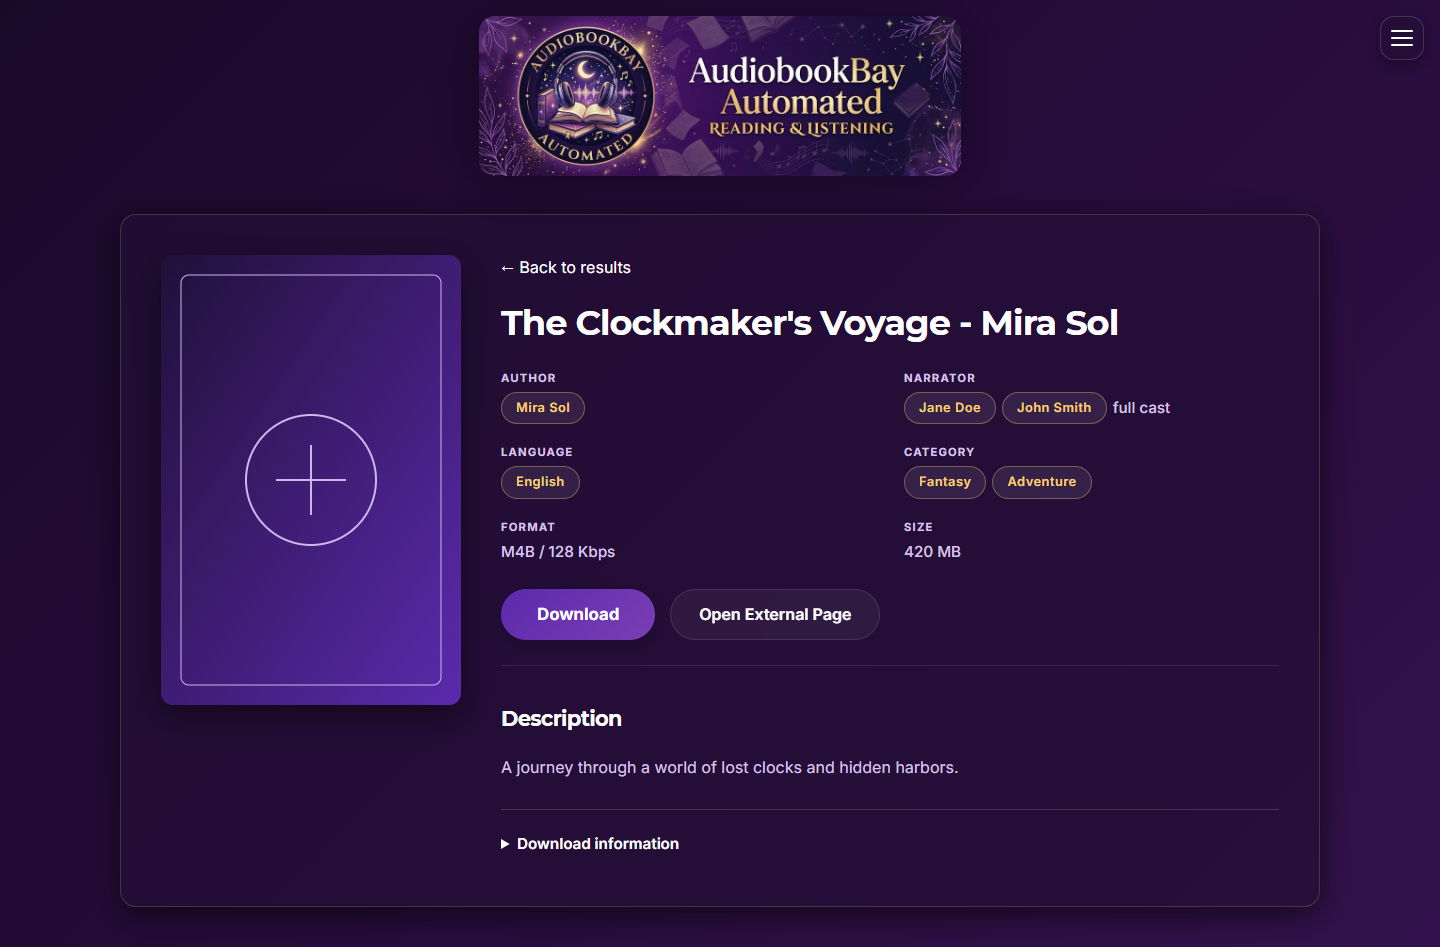
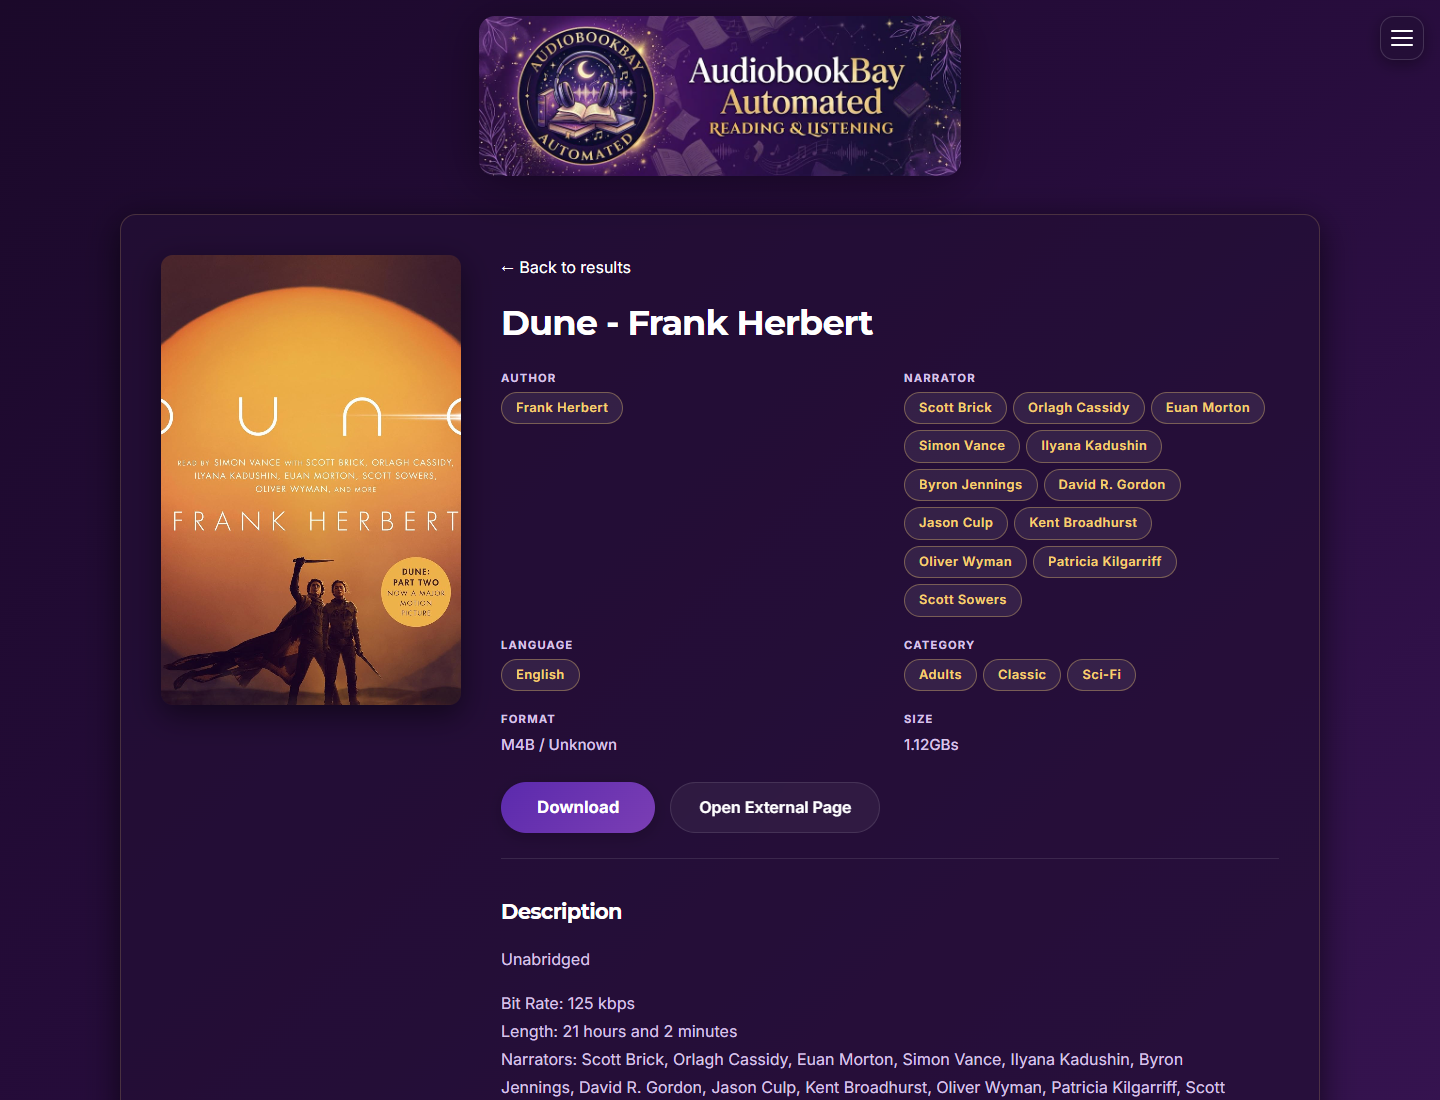
docs: refresh README screenshots with real catalog and download data (#123)

diff --git a/tests/e2e/capture_screenshots.js b/tests/e2e/capture_screenshots.js
@@ -3,38 +3,75 @@ const { chromium } = require("@playwright/test");
 const path = require("node:path");
 
 (async () => {
-    const browser = await chromium.launch({ channel: process.env.PLAYWRIGHT_CHROMIUM_CHANNEL });
-    const page = await browser.newPage({ viewport: { width: 1440, height: 1100 }, reducedMotion: "reduce" });
-    const pages = [
-        ["search", "/?query=voyage", ".result-row"],
-        ["details", "/details?link=https%3A%2F%2Fcatalog.example%2Fbook-0", ".details-container"],
-        ["status", "/status", "#status-table-body"],
-    ];
-    for (const [name, url, selector] of pages) {
-        await page.setViewportSize({ width: 1440, height: name === "search" ? 1300 : 1100 });
-        const response = await page.goto("http://127.0.0.1:5090" + url);
-        if (!response.ok()) throw new Error("Fixture page failed: " + url);
-        await page.locator(selector).first().waitFor({ state: "visible" });
-        await page.locator("img").evaluateAll(async (images) => {
-            await Promise.all(images.map((image) => image.decode().catch(() => {})));
-        });
-        const content = await page
-            .locator(
-                name === "search" ? ".result-row" : name === "details" ? ".details-container" : "#status-table-body"
-            )
-            .first()
-            .boundingBox();
-        if (!content) throw new Error("Screenshot content is missing: " + name);
-        const clip = {
-            x: 0,
-            y: 0,
-            width: 1440,
-            height: Math.ceil(content.y + content.height + (name === "search" ? 8 : 40)),
-        };
-        await page.screenshot({ path: path.resolve(__dirname, "../../docs/images/" + name + ".png"), clip });
+    const base = process.env.SCREENSHOT_BASE_URL || "http://127.0.0.1:5078";
+    const query = process.env.SCREENSHOT_QUERY || "dune";
+    const browser = await chromium.launch({
+        channel: process.env.PLAYWRIGHT_CHROMIUM_CHANNEL,
+        proxy: process.env.SCREENSHOT_PROXY
+            ? { server: process.env.SCREENSHOT_PROXY, bypass: "localhost,127.0.0.1" }
+            : undefined,
+    });
+    try {
+        const page = await browser.newPage({ viewport: { width: 1440, height: 1100 }, reducedMotion: "reduce" });
+        page.setDefaultTimeout(60000);
+        const errors = [];
+        page.on("pageerror", (error) => errors.push(error.message));
+        let referenceTheme;
+        let details = process.env.SCREENSHOT_DETAILS_LINK;
+        for (const name of ["search", "details", "status"]) {
+            const url =
+                name === "search" ? "/?query=" + encodeURIComponent(query) : name === "details" ? details : "/status";
+            if (!url) throw new Error("No Details link found in search results.");
+            const response = await page.goto(new URL(url, base).href, { timeout: 180000 });
+            if (!response.ok()) throw new Error("Screenshot page failed: " + url);
+            const selector =
+                name === "search" ? ".result-row" : name === "details" ? ".details-container" : "#status-table-body";
+            await page.locator(selector).first().waitFor({ state: "visible" });
+            if (name === "status") {
+                await page.waitForFunction(() => {
+                    const body = document.querySelector("#status-table-body");
+                    return body && !/^loading\b/i.test(body.innerText.trim()) && body.children.length > 0;
+                });
+            }
+            await page.locator("img").evaluateAll(async (images) => {
+                await Promise.all(
+                    images
+                        .filter((image) => image.loading !== "lazy" || image.getBoundingClientRect().top < innerHeight)
+                        .map((image) => image.decode().catch(() => {}))
+                );
+            });
+            if (name === "details") await page.locator("img.details-cover").evaluate((image) => image.decode());
+            if (name === "search") {
+                const rows = page.locator(".result-row");
+                const top = (await rows.first().boundingBox()).y;
+                for (const row of await rows.all()) {
+                    if (Math.abs((await row.boundingBox()).y - top) > 2) break;
+                    const cover = row.locator("img");
+                    if (!(await cover.count())) throw new Error("A first-row result has no cover.");
+                    await cover.evaluate((image) => image.decode());
+                }
+                details ||= await rows.first().locator('a[href^="/details?"]').first().getAttribute("href");
+            }
+            const theme = await page.evaluate(() => ({
+                name: document.documentElement.getAttribute("data-theme"),
+                background: getComputedStyle(document.body).backgroundImage,
+                attachment: getComputedStyle(document.body).backgroundAttachment,
+            }));
+            if (name === "search") referenceTheme = theme;
+            else if (JSON.stringify(theme) !== JSON.stringify(referenceTheme))
+                throw new Error("Page theme differs: " + name);
+            await page.screenshot({
+                path: path.resolve(__dirname, "../../docs/images/" + name + ".png"),
+                fullPage: false,
+            });
+        }
+        if (errors.length) throw new Error(errors.join("\n"));
+        process.stdout.write(
+            "Updated screenshots from " + base + " using query " + query + ". Review before committing.\n"
+        );
+    } finally {
+        await browser.close();
     }
-    await browser.close();
-    process.stdout.write("Updated default-theme screenshots using the isolated fixture.\n");
 })().catch((error) => {
     process.stderr.write(error.stack + "\n");
     process.exit(1);

diff --git a/docs/development.md b/docs/development.md
@@ -97,14 +97,25 @@ are replaced; it does not substitute page HTML or send live downloads. Port 5090
 `PLAYWRIGHT_CHROMIUM_CHANNEL=chrome` selects an installed Chrome instead of Playwright's bundled Chromium. CI uses
 the bundled browsers. These are development options, not Docker installation settings.
 
-To refresh the README screenshots, start the fixture server in one terminal:
+To refresh README screenshots, run a local app with the default branding and a real catalog connection. Configure
+its proxy and Download Client using the settings in [configuration.md](configuration.md), then run in another terminal:
 
 ~~~shell
-uv run --frozen --all-extras python tests/e2e/server.py
+npm run screenshots
 ~~~
 
-In another terminal, run `npm run screenshots`. Review the resulting `docs/images/` files before committing. The
-screenshots show fictional example books using the default theme, not personal catalog or Download Client data.
+The capture script defaults to `http://127.0.0.1:5078` and a `dune` search. All three images use the same
+1440 × 1100 browser viewport, without content-specific crops, and must have identical computed theme backgrounds.
+It opens Search, a returned Details link and
+Downloads without clicking Download or Remove. It requires decoded covers for every first-row search card and the
+Details artwork; failed image loads must be corrected before using the screenshots.
+
+Optional environment variables are `SCREENSHOT_BASE_URL`, `SCREENSHOT_QUERY`, `SCREENSHOT_DETAILS_LINK` (the app's
+`/details?link=...` URL), and `SCREENSHOT_PROXY` for browser cover requests. The browser proxy bypasses localhost.
+The Python app's proxy settings are separate and must also be configured. `PLAYWRIGHT_CHROMIUM_CHANNEL=chrome`
+selects installed Chrome. Use default branding, review the complete `docs/images/` images, and check that no private
+client information appears before committing. An empty Downloads view is valid when no matching tasks exist; do not
+start a download merely to populate a documentation screenshot. Isolated fixtures remain for browser regression tests.
 
 ## CI and release flow
 

diff --git a/docs/agents/testing-quality.md b/docs/agents/testing-quality.md
@@ -43,8 +43,8 @@
   URL/data contracts or integration success.
 - Cover missing credits, pagination/filter state, concise validation, metadata cleanup, equal actions, responsive
   header alignment, menu focus and refresh controls. Keep failure screenshots/traces as CI artifacts.
-- Run `npm run screenshots` against the isolated fixture to refresh default-theme documentation images. Never use
-  personal Download Client data in checked-in screenshots.
+- Refresh default-theme README images with real catalog results and loaded covers using `npm run screenshots`;
+  follow `docs/development.md`. Review client data for privacy and never submit downloads just to populate images.
 - Pre-commit checks Markdown with markdownlint and tilde fences; Prettier handles code/templates including TypeScript.
 - For release changes, validate workflow syntax, the lockfile, Compose examples, the built wheel and the container's
   HTTP health endpoint. GitHub publishing/deployment remain explicit actions; local checks do not prove a remote run.
